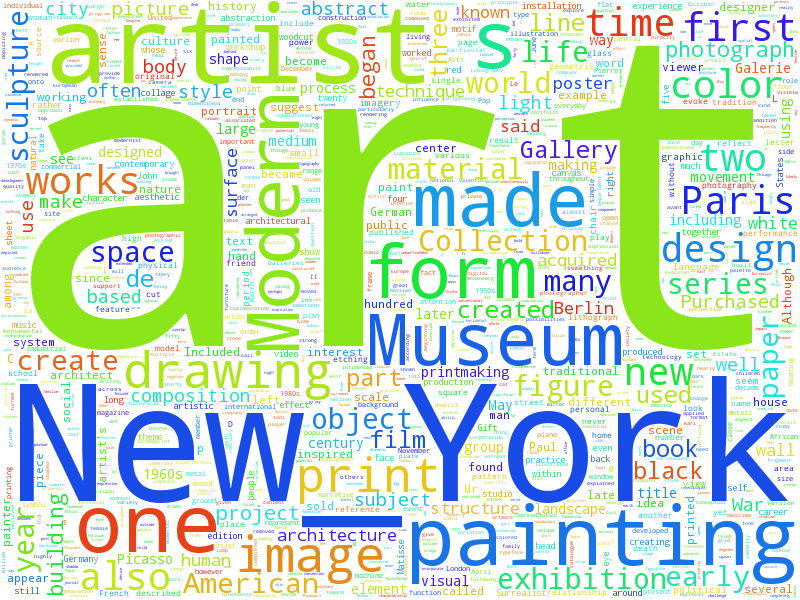
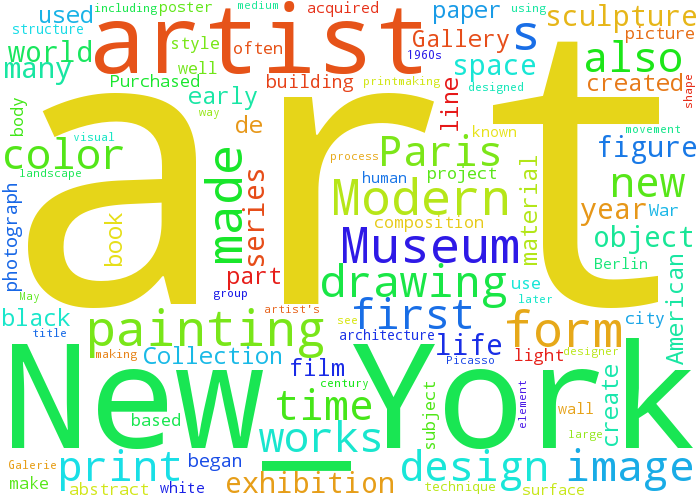
made wordcloud smaller

diff --git a/moma-cloud.py b/moma-cloud.py
@@ -9,9 +9,9 @@ d = path.dirname(__file__)
 # Read the whole text.
 text = open(path.join(d, 'unique_extra_files.txt')).read()
 
-wc = WordCloud(background_color="white", max_words=1000,
-               width=800, height=600,
-               stopwords=STOPWORDS.add("work"))
+wc = WordCloud(background_color="white", max_words=100,
+               width=700, height=500,
+               stopwords=STOPWORDS.update(["said", "work","one","two","three"]))
 # generate word cloud
 wc.generate(text)
 
